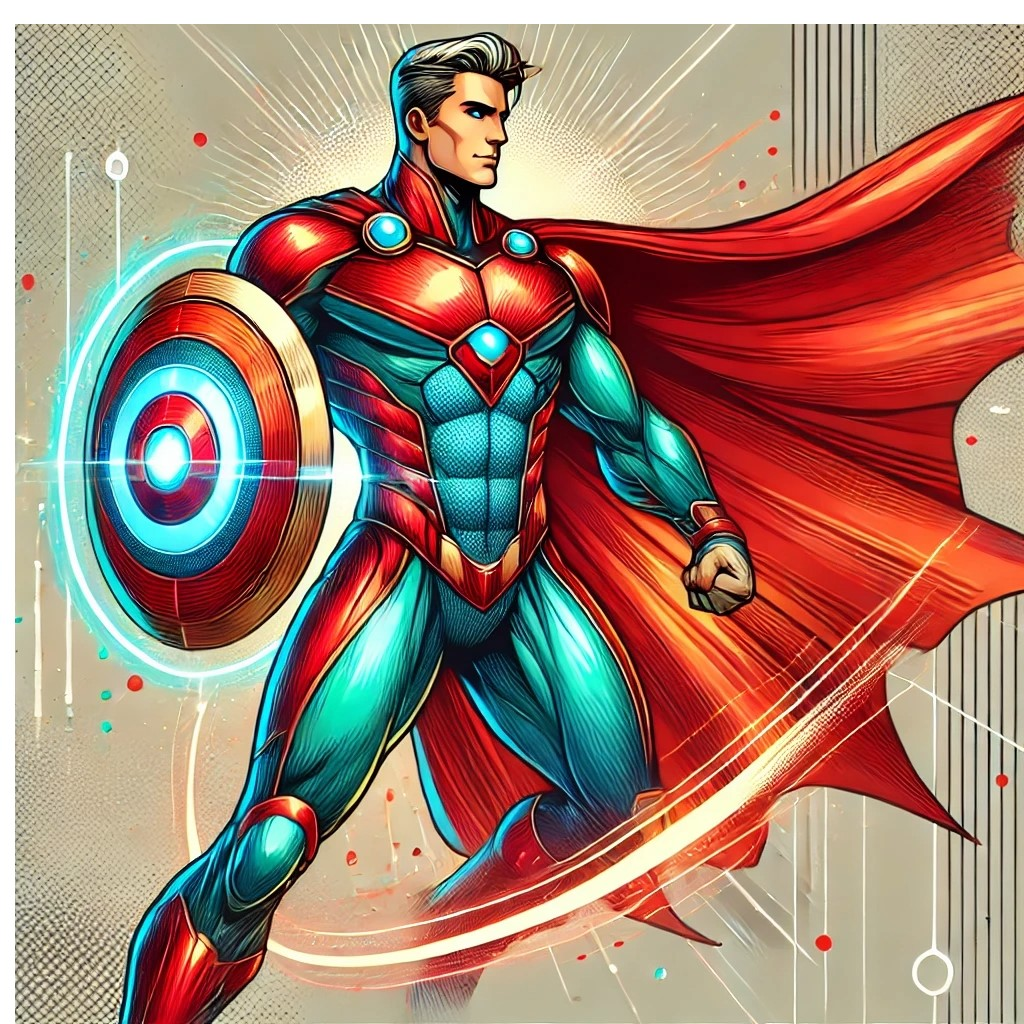
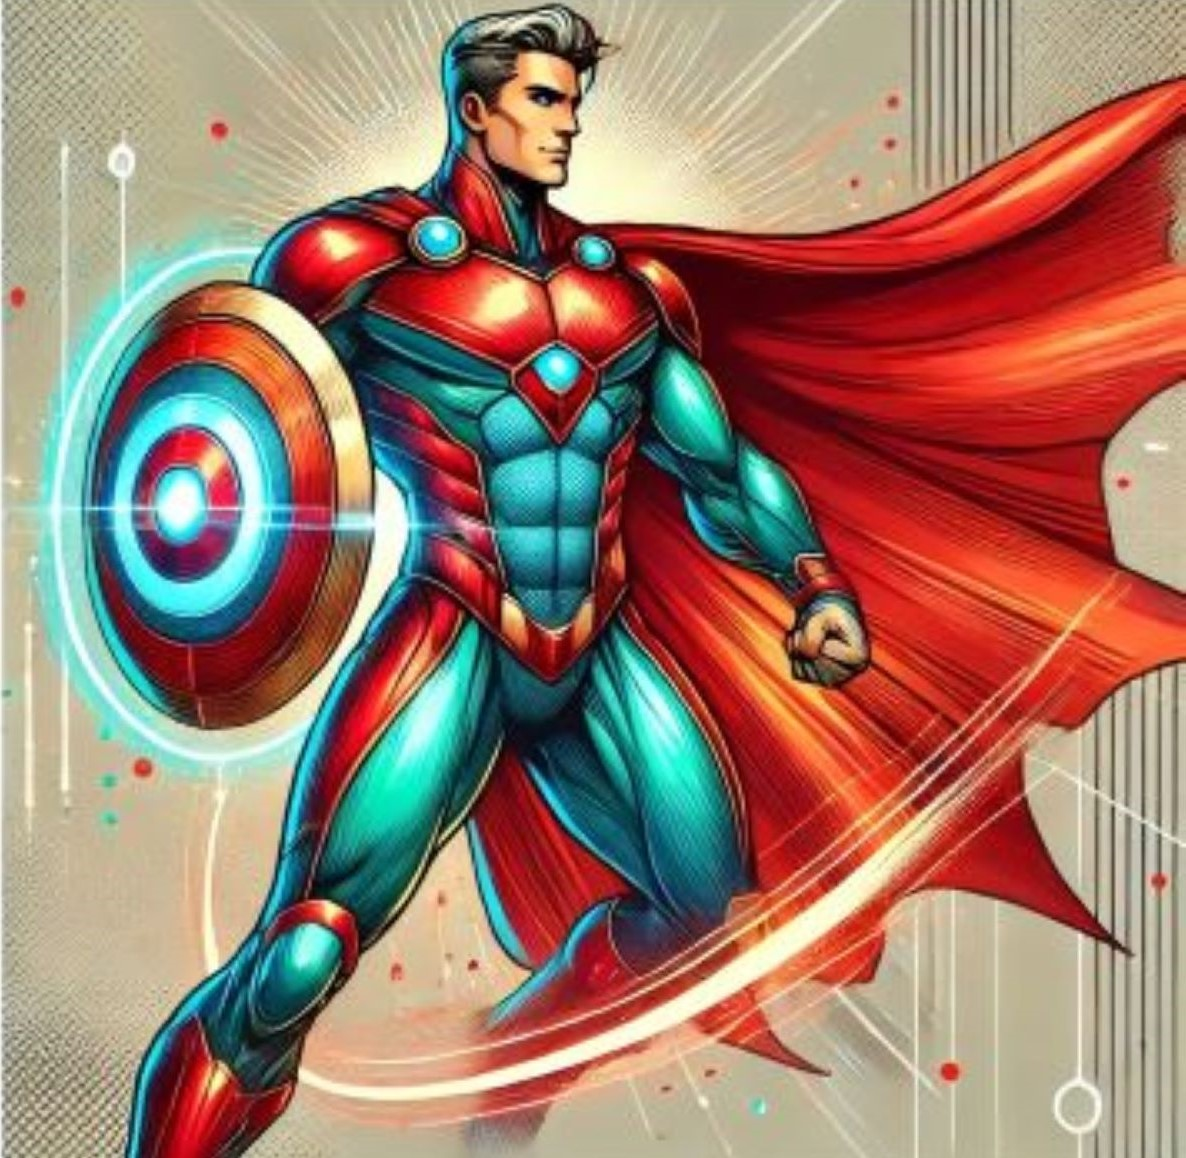
Image size changes and CSS update

diff --git a/assets/css/main.css b/assets/css/main.css
@@ -1635,7 +1635,7 @@ input, select, textarea {
 				-webkit-tap-highlight-color: rgba(255, 255, 255, 0);
 				background-position: center;
 				background-repeat: no-repeat;
-				background-size: cover;
+				background-size: contain;
 				border: 0;
 				height: 100%;
 				left: 0;
